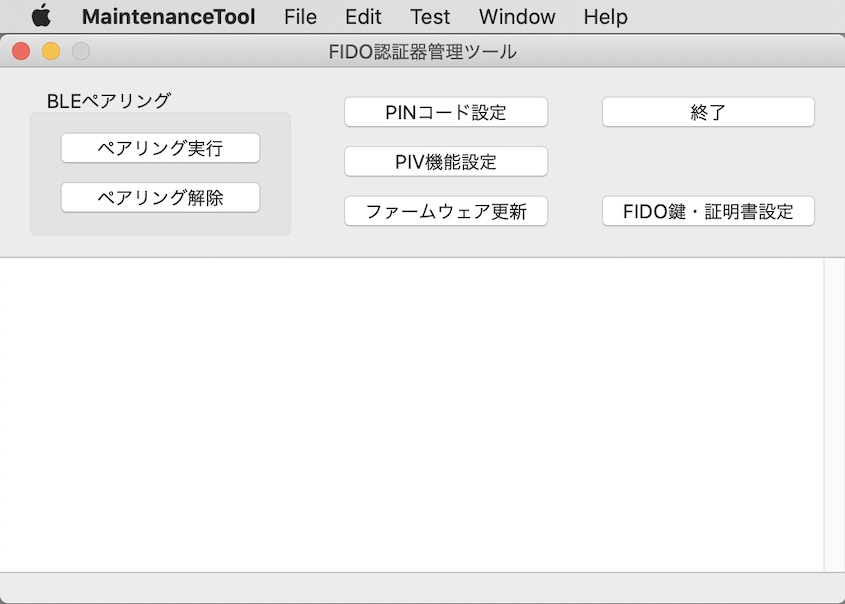
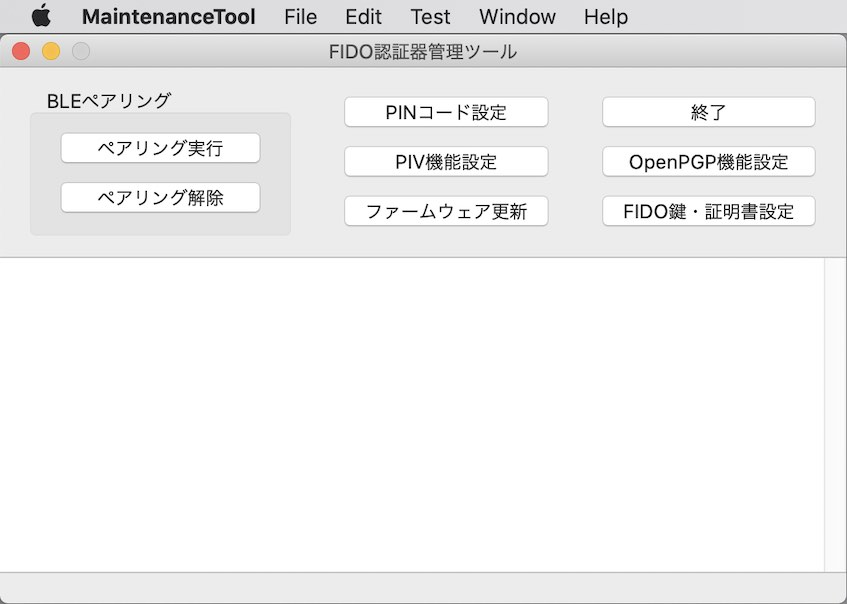
ドキュメントを更新
・READMEを修正

diff --git a/MaintenanceTool/README.md b/MaintenanceTool/README.md
@@ -16,6 +16,7 @@ macOS版と、Windows版を用意しました。
 * バージョン情報取得機能
 * 自動認証パラメーター設定機能
 * PIV機能設定（macOS版のみ）
+* OpenPGP機能設定（macOS版のみ）
 * ファームウェア更新機能
 * ログファイル格納ディレクトリー参照機能
 
